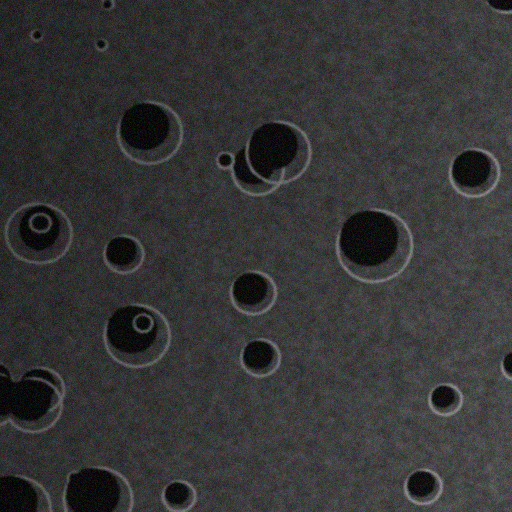
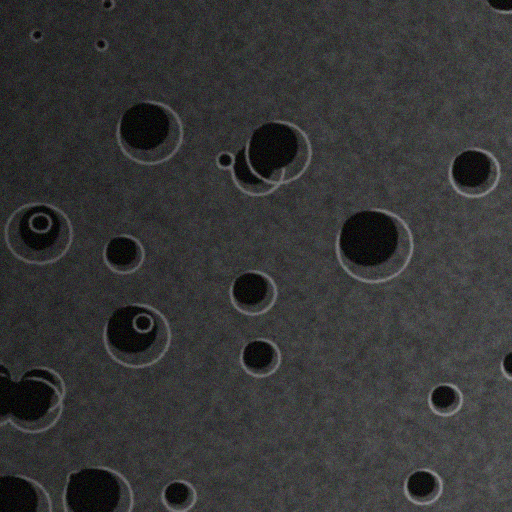
Update port configuration, optimize WebSocket telemetry buffer, and enhance OHRC vs TMC2 diagnostic reporting

diff --git a/frontend/src/components/MatchVisualizer.jsx b/frontend/src/components/MatchVisualizer.jsx
@@ -1,6 +1,6 @@
 import React, { useState, useEffect } from 'react';
 import { apiService } from '../services/apiService';
-import { Download, Crosshair, Radar, FileCode, Cpu, ShieldCheck } from 'lucide-react';
+import { Download, Crosshair, Radar, FileCode, Cpu, ShieldCheck, AlertTriangle } from 'lucide-react';
 
 const MatchVisualizer = ({ sessionId, metrics }) => {
   const [dossier, setDossier] = useState(null);
@@ -10,10 +10,7 @@ const MatchVisualizer = ({ sessionId, metrics }) => {
     if (sessionId && metrics.dossier_index !== null && metrics.dossier_index !== undefined && metrics.dossier_index >= 0) {
       apiService.fetchResults(sessionId)
         .then(() => {
-          const wsUrl = apiService.getWebSocketUrl(sessionId);
-          const httpUrl = wsUrl.replace('ws://', 'http://')
-                               .replace('/api/v1/registration/ws/progress/', '/api/v1/results/');
-          return fetch(`${httpUrl}/dossier/${metrics.dossier_index}`);
+          return fetch(`${apiService.API_BASE}/results/${sessionId}/dossier/${metrics.dossier_index}`);
         })
         .then(res => {
           if (!res.ok) {
@@ -70,9 +67,48 @@ const MatchVisualizer = ({ sessionId, metrics }) => {
   }
 
   if (!dossier) {
+    const isExhaustion = metrics.status === 'INSUFFICIENT_MATCHES' || metrics.inliers === 0;
+    const diag = metrics.diagnostic_report;
+
     return (
       <div className="glass-panel" style={{ padding: '2rem', textAlign: 'center', color: 'var(--text-annotation)' }}>
-        <p>No inlier tie points or dossier telemetry available for this run.</p>
+        {isExhaustion ? (
+          <div style={{ maxWidth: '640px', margin: '0 auto', textAlign: 'left', display: 'flex', flexDirection: 'column', gap: '14px' }}>
+            <div style={{ display: 'flex', alignItems: 'center', gap: '10px', color: 'var(--status-warning)' }}>
+              <AlertTriangle size={24} />
+              <h3 style={{ fontFamily: 'var(--font-display)', margin: 0 }}>
+                {metrics.status === 'INSUFFICIENT_MATCHES' ? 'PIPELINE EXHAUSTION DETECTED' : 'NO INLIER TIE POINTS DETECTED'}
+              </h3>
+            </div>
+            <p style={{ fontSize: '0.875rem', color: 'var(--text-telemetry)', lineHeight: '1.5' }}>
+              {metrics.error || 'Found 0 geometrically consistent keypoint correspondences across this image pair.'}
+            </p>
+            {diag && (
+              <div className="glass-panel-inset" style={{ padding: '16px', display: 'flex', flexDirection: 'column', gap: '10px' }}>
+                <div>
+                  <span style={{ fontSize: '0.6875rem', fontFamily: 'var(--font-telemetry)', color: 'var(--primary-neon)', textTransform: 'uppercase', letterSpacing: '0.05em' }}>
+                    Incident Mode
+                  </span>
+                  <p style={{ fontSize: '0.8125rem', color: 'var(--text-annotation)', marginTop: '2px' }}>{diag.incident}</p>
+                </div>
+                <div>
+                  <span style={{ fontSize: '0.6875rem', fontFamily: 'var(--font-telemetry)', color: 'var(--status-warning)', textTransform: 'uppercase', letterSpacing: '0.05em' }}>
+                    Root Cause
+                  </span>
+                  <p style={{ fontSize: '0.8125rem', color: 'var(--text-annotation)', marginTop: '2px' }}>{diag.cause}</p>
+                </div>
+                <div>
+                  <span style={{ fontSize: '0.6875rem', fontFamily: 'var(--font-telemetry)', color: 'var(--status-nominal)', textTransform: 'uppercase', letterSpacing: '0.05em' }}>
+                    Engine Recommendation
+                  </span>
+                  <p style={{ fontSize: '0.8125rem', color: 'var(--text-annotation)', marginTop: '2px' }}>{diag.remediation}</p>
+                </div>
+              </div>
+            )}
+          </div>
+        ) : (
+          <p>No inlier tie points or dossier telemetry available for this run.</p>
+        )}
       </div>
     );
   }

diff --git a/frontend/src/services/apiService.js b/frontend/src/services/apiService.js
@@ -1,6 +1,8 @@
-const API_BASE = 'http://localhost:8001/api/v1';
+const BACKEND_HOST = import.meta.env.VITE_BACKEND_HOST || 'localhost:8088';
+const API_BASE = `http://${BACKEND_HOST}/api/v1`;
 
 export const apiService = {
+  API_BASE,
   async uploadImages(sourceFile, referenceFile) {
     const formData = new FormData();
     formData.append('source', sourceFile);
@@ -38,7 +40,7 @@ export const apiService = {
   },
 
   getWebSocketUrl(sessionId) {
-    return `ws://localhost:8001/api/v1/registration/ws/progress/${sessionId}`;
+    return `ws://${BACKEND_HOST}/api/v1/registration/ws/progress/${sessionId}`;
   },
 
   getImageUrl(sessionId, type, idx) {

diff --git a/backend/utils/background_tasks.py b/backend/utils/background_tasks.py
@@ -11,17 +11,21 @@ class ConnectionManager:
     def __init__(self):
         # Maps session_id -> WebSocket
         self.active_connections: Dict[str, WebSocket] = {}
+        self.latest_messages: Dict[str, dict] = {}
 
     async def connect(self, websocket: WebSocket, session_id: str):
-        # For WebSocket connections, we need to handle CORS manually.
-        # In a production environment, you should validate the origin against a list of allowed origins.
-        # For this demo, we accept all origins to allow the frontend (localhost:5173) to connect.
-        # Origin can be retrieved from websocket.headers.get("origin")
         origin = websocket.headers.get("origin")
         print(f"WebSocket connection attempt from origin: {origin}")
         await websocket.accept()
         self.active_connections[session_id] = websocket
         print(f"WebSocket connection accepted for session {session_id}")
+
+        # If there is a buffered latest progress message (e.g. fast completion), send it immediately
+        if session_id in self.latest_messages:
+            try:
+                await websocket.send_text(json.dumps(self.latest_messages[session_id]))
+            except Exception as e:
+                print(f"Error sending buffered telemetry to {session_id}: {e}")
 
     def disconnect(self, session_id: str):
         if session_id in self.active_connections:
@@ -31,14 +35,16 @@ class ConnectionManager:
         """
         Pushes a JSON payload to the specific active session socket.
         """
+        payload = {
+            "stage": stage,
+            "progress": progress
+        }
+        if metrics:
+            payload["metrics"] = metrics
+            
+        self.latest_messages[session_id] = payload
+
         if session_id in self.active_connections:
-            payload = {
-                "stage": stage,
-                "progress": progress
-            }
-            if metrics:
-                payload["metrics"] = metrics
-                
             websocket = self.active_connections[session_id]
             try:
                 await websocket.send_text(json.dumps(payload))

diff --git a/backend/services/registration_service.py b/backend/services/registration_service.py
@@ -31,6 +31,9 @@ class RegistrationService:
         os.makedirs(out_dir, exist_ok=True)
         logger.info(f"Output directory for session {session_id}: {out_dir}")
 
+        # Brief yield to allow the frontend WebSocket handshake to establish
+        await asyncio.sleep(0.3)
+
         # Load images
         logger.info(f"Broadcasting raw progress for session {session_id}")
         await manager.broadcast_progress(session_id, "raw", 10)
